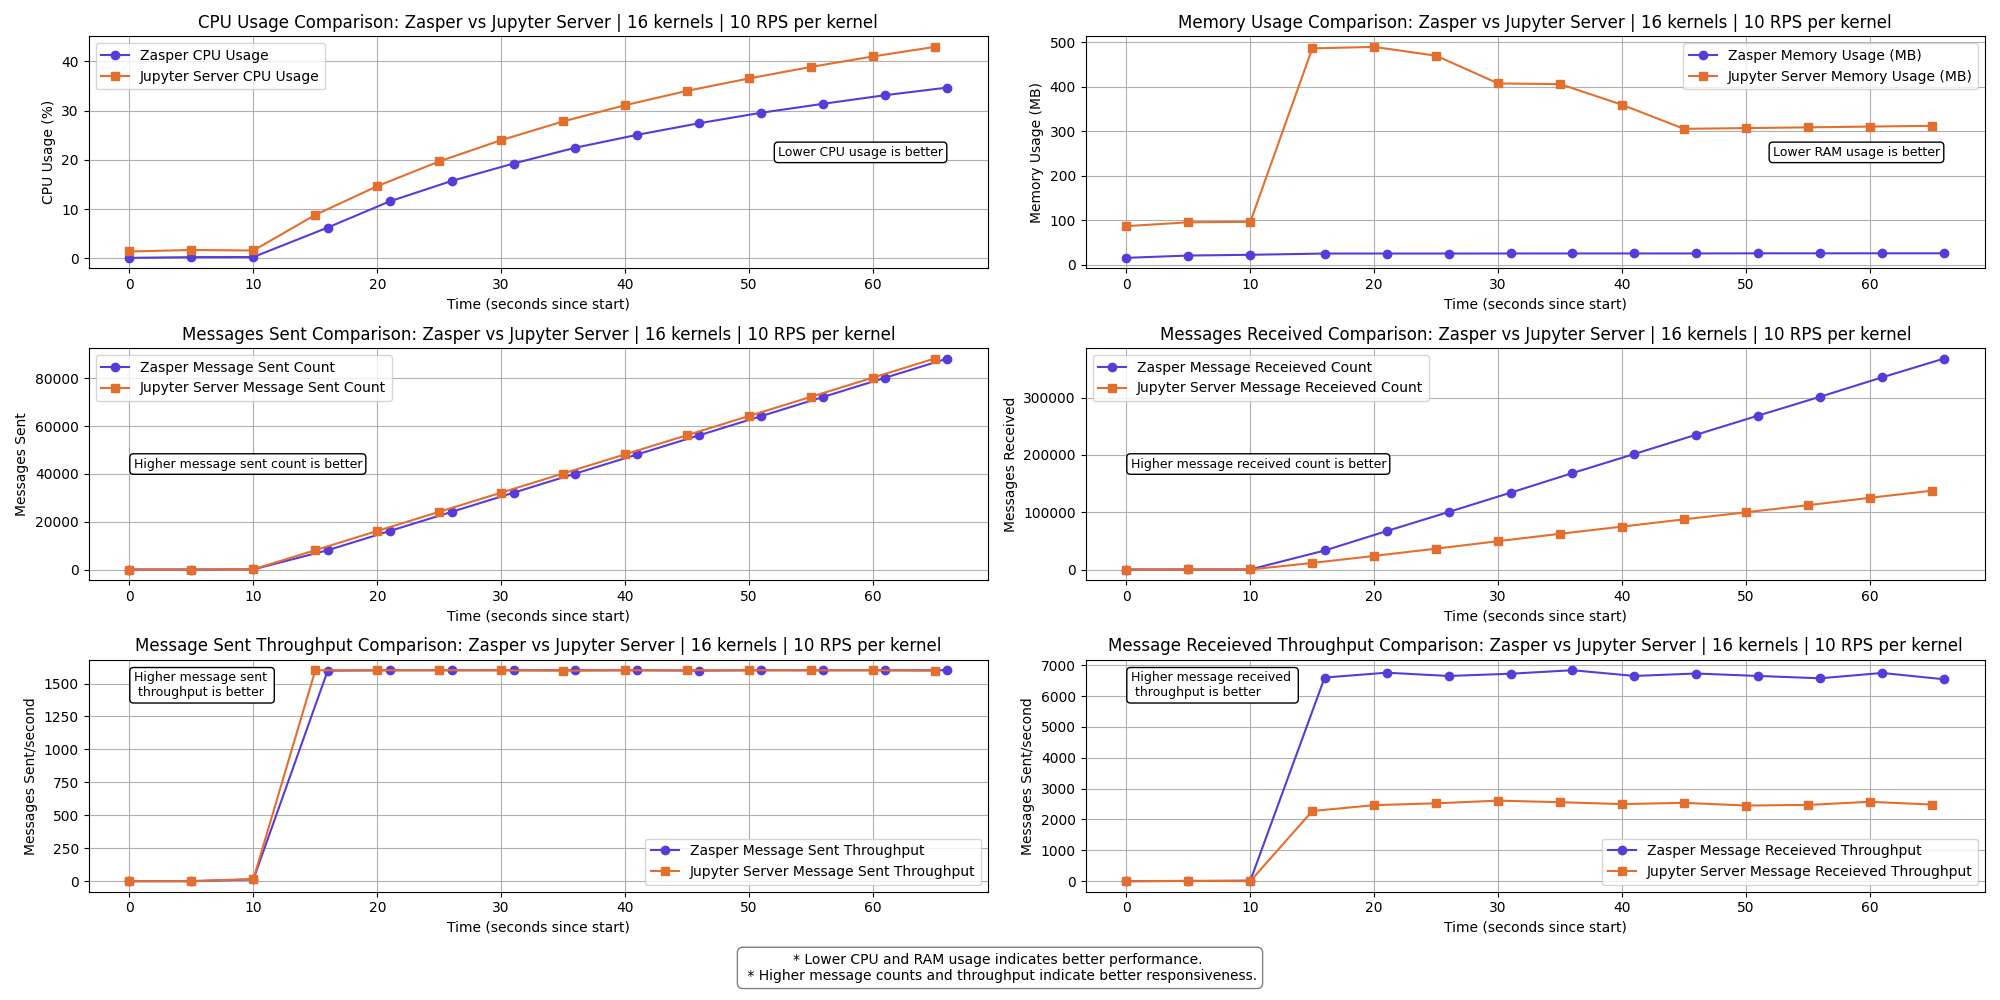
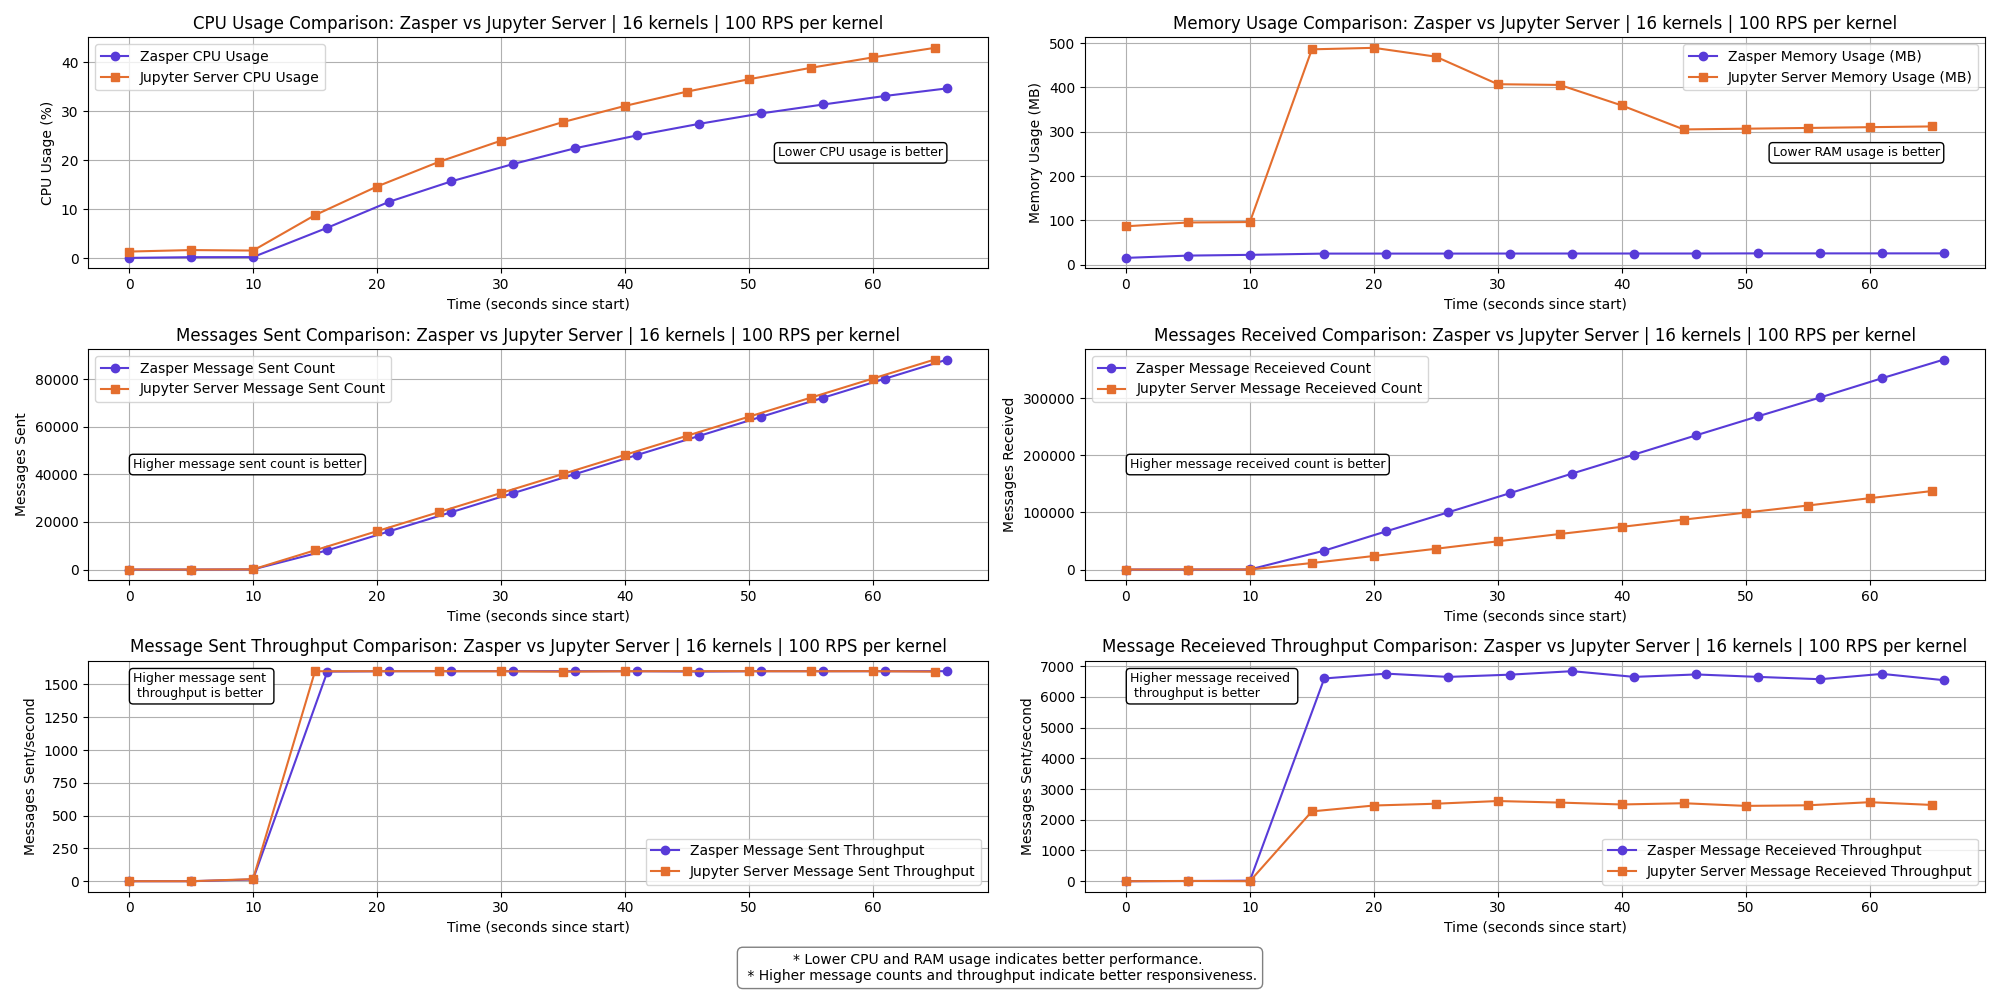
correct rps labeling and explain message received throughput

diff --git a/visualize.py b/visualize.py
@@ -8,11 +8,13 @@ os.makedirs("plots", exist_ok=True)
 
 parser = argparse.ArgumentParser(description="Generate visualizations for Zasper and Jupyter.")
 parser.add_argument("--n", type=int, required=True, help="Number of kernels")
-parser.add_argument("--delay", type=str, required=True, help="delay between requests")
+parser.add_argument("--delay", type=int, required=True, help="delay between requests")
 
 args = parser.parse_args()
 n = args.n
 delay = args.delay
+
+rps = int(1000/delay)
 
 # File names depend on n
 zasper_file = f"data/{delay}ms/benchmark_results_zasper_{n}kernels.json"
@@ -70,7 +72,7 @@ ax1.plot(zasper_time, zasper_cpu_usage, label="Zasper CPU Usage", color='#583BD8
 ax1.plot(jupyter_time, jupyter_cpu_usage, label="Jupyter Server CPU Usage", color='#E46E2E', marker='s')
 ax1.set_xlabel('Time (seconds since start)')
 ax1.set_ylabel('CPU Usage (%)')
-ax1.set_title(f'CPU Usage Comparison: Zasper vs Jupyter Server | {n} kernels | 10 RPS per kernel')
+ax1.set_title(f'CPU Usage Comparison: Zasper vs Jupyter Server | {n} kernels | {rps} RPS per kernel')
 ax1.legend()
 ax1.grid(True)
 add_note(ax1, "Lower CPU usage is better", position='center right')
@@ -80,7 +82,7 @@ ax2.plot(zasper_time, zasper_memory_usage, label="Zasper Memory Usage (MB)", col
 ax2.plot(jupyter_time, jupyter_memory_usage, label="Jupyter Server Memory Usage (MB)", color='#E46E2E', marker='s')
 ax2.set_xlabel('Time (seconds since start)')
 ax2.set_ylabel('Memory Usage (MB)')
-ax2.set_title(f'Memory Usage Comparison: Zasper vs Jupyter Server | {n} kernels | 10 RPS per kernel')
+ax2.set_title(f'Memory Usage Comparison: Zasper vs Jupyter Server | {n} kernels | {rps} RPS per kernel')
 ax2.legend()
 ax2.grid(True)
 add_note(ax2, "Lower RAM usage is better", position='center right')
@@ -91,7 +93,7 @@ ax3.plot(zasper_time, zasper_messages_sent_count, label="Zasper Message Sent Cou
 ax3.plot(jupyter_time, jupyter_messages_sent_count, label="Jupyter Server Message Sent Count", color='#E46E2E', marker='s')
 ax3.set_xlabel('Time (seconds since start)')
 ax3.set_ylabel('Messages Sent')
-ax3.set_title(f'Messages Sent Comparison: Zasper vs Jupyter Server | {n} kernels | 10 RPS per kernel')
+ax3.set_title(f'Messages Sent Comparison: Zasper vs Jupyter Server | {n} kernels | {rps} RPS per kernel')
 ax3.legend()
 ax3.grid(True)
 add_note(ax3, "Higher message sent count is better", position='center left')
@@ -101,7 +103,7 @@ ax4.plot(zasper_time, zasper_messages_received_count, label="Zasper Message Rece
 ax4.plot(jupyter_time, jupyter_messages_received_count, label="Jupyter Server Message Receieved Count", color='#E46E2E', marker='s')
 ax4.set_xlabel('Time (seconds since start)')
 ax4.set_ylabel('Messages Received')
-ax4.set_title(f'Messages Received Comparison: Zasper vs Jupyter Server | {n} kernels | 10 RPS per kernel')
+ax4.set_title(f'Messages Received Comparison: Zasper vs Jupyter Server | {n} kernels | {rps} RPS per kernel')
 ax4.legend()
 ax4.grid(True)
 add_note(ax4, "Higher message received count is better", position='center left')
@@ -112,7 +114,7 @@ ax5.plot(zasper_time, zasper_message_sent_throughput, label="Zasper Message Sent
 ax5.plot(jupyter_time, jupyter_message_sent_throughput, label="Jupyter Server Message Sent Throughput", color='#E46E2E', marker='s')
 ax5.set_xlabel('Time (seconds since start)')
 ax5.set_ylabel('Messages Sent/second')
-ax5.set_title(f'Message Sent Throughput Comparison: Zasper vs Jupyter Server | {n} kernels | 10 RPS per kernel')
+ax5.set_title(f'Message Sent Throughput Comparison: Zasper vs Jupyter Server | {n} kernels | {rps} RPS per kernel')
 ax5.legend()
 ax5.grid(True)
 add_note(ax5, "Higher message sent \n throughput is better", position='upper left')
@@ -122,7 +124,7 @@ ax6.plot(zasper_time, zasper_message_received_throughput, label="Zasper Message 
 ax6.plot(jupyter_time, jupyter_message_received_throughput, label="Jupyter Server Message Receieved Throughput", color='#E46E2E', marker='s')
 ax6.set_xlabel('Time (seconds since start)')
 ax6.set_ylabel('Messages Sent/second')
-ax6.set_title(f'Message Receieved Throughput Comparison: Zasper vs Jupyter Server | {n} kernels | 10 RPS per kernel')
+ax6.set_title(f'Message Receieved Throughput Comparison: Zasper vs Jupyter Server | {n} kernels | {rps} RPS per kernel')
 ax6.legend()
 ax6.grid(True)
 add_note(ax6, "Higher message received \n throughput is better", position='upper left')
@@ -141,4 +143,3 @@ plt.tight_layout(rect=[0, 0.05, 1, 1])
 
 plt.savefig(f"plots/{delay}ms/benchmark_result_{n}kernels.png")
 # plt.show()
-

diff --git a/README.md b/README.md
@@ -192,9 +192,23 @@ Hence, if you want to run the benchmarks make sure that you have enough RAM for 
 
 **RPS per kernel** stands for **Requests Per Second per kernel**. It refers to the number of execution requests sent to a single kernel every second. This metric is used to measure the load or stress applied to the system during benchmarking.
 
+```
+Message Sent Throughput = num_of_kernels * RPS per kernel
+```
+
+For every `execute_request` sent to the kernel, the kernel replies with 5 messages.
+
+![](/assets/request_reply.png)
+
+```
+Message Received Throughput = 5 * Message Sent Throughput
+```
+
 For example:
 - If the **RPS per kernel** is **10**, it means each kernel is receiving 10 execution requests per second.
-- If there are **64 kernels** and the RPS per kernel is **10**, the total number of requests being sent across all kernels is **64 × 10 = 640 requests per second**.
+- If there are **64 kernels** and the RPS per kernel is **10**, the total number of requests being sent across all kernels is **64 × 10 = 640 requests(or messages) per second**.
+- Message sent throughput = 640 messages per second
+- Message received throughput = 640*5 = 3200 messages per second
 
 #### Relationship Between Delay and RPS
 The **delay** between two execution requests determines the RPS. The formula is:
